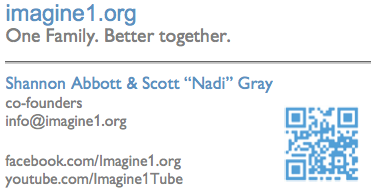
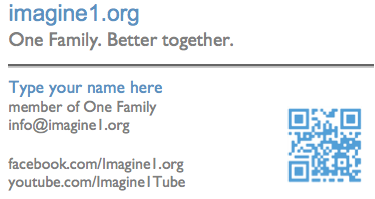
updated text and business cards for Nadi

diff --git a/about.html b/about.html
@@ -14,13 +14,7 @@
               </div>
               <div class="span4">
                   <div class="grey_box profile">
-                      <h2>Meet imagine1.org Founders <!--Shannon Abbott and Scott “Nadi” Gray--></h2>
-                              <p>
-                                  <dl>
-                                      <dt><a href="shannon.html" class="thumbnail"><img width="70%" src="images/shannon.png"/></a></dt>
-                                      <dd>Shannon Abbott (bio written by Nadi)</dd>
-                                 <dl>
-                            </p>                          
+                      <h2>Meet imagine1.org Founder <!--Shannon Abbott and Scott “Nadi” Gray--></h2>
                             <p>
                                 <dl>
                                     <dt><a href="scott.html" class="thumbnail"><img width="70%" src="images/scott.png"/></a></dt>
@@ -44,8 +38,7 @@
                       <li>No matter what we believe, all want to see our children happy and healthy.</li>
                       </ul>
                       <p>While some rejected the idea of One Family as naive or impractical, others from 25 countries joined the little family. Some wrote to the rest about why they believed in the idea. So despite Nadi being distracted by his writing, adventures, career and family, the dream of imagine1.org’s One Family was kept alive by the all that joined. </p>
-                      <p>In 2011 while backpacking on the Appalachian Trail, Nadi met Shannon Abbott. She had the same dream and agreed to help him turn the experiment into a reality. With that a new founder of imagine1.org leapt into action. Next David Dale, an IT consultant, offered to help build a new web site. Then, other friends began to help with messaging, community, and sharing encouragement in many ways.</p>
-                      <p>The rest is our history to make rather than Nadi or Shannon’s to write. But if we succeed, our lives will become more beautiful. We will wake each day knowing an opportunity is there for us, through imagine1.org, to reach someone far away and create a more connected, loving world, a world where everyone you meet is family, our family, One Family.</p>
+                      <p>The rest is our history to make rather than Nadi’s to write. But if we succeed, our lives will become more beautiful. We will wake each day knowing an opportunity is there for us, through imagine1.org, to reach someone far away and create a more connected, loving world, a world where everyone you meet is family, our family, One Family.</p>
                       
                   </div>
               </div>

diff --git a/main.html b/main.html
@@ -37,9 +37,7 @@
                 <div id="myCarousel" class="carousel slide">
                   <!-- Carousel items -->
                   <div class="carousel-inner">
-                    #{cms.randomList times:10,max:59}
-                        <div class="item"><img width="100%" src="images/photos/${random}.jpg"></div>
-                    #{/cms.randomList}
+
                   </div>                                                                
                   <!--a class="left carousel-control" href="#myCarousel" data-slide="prev">&lsaquo;</a-->
                   <!--a class="right carousel-control" href="#myCarousel" data-slide="next">&rsaquo;</a-->    
@@ -51,9 +49,7 @@
                     <div class="span9 banner">
                         <strong>One Family Members </strong>
                         <marquee scrollamount="2" width="50%">
-                        #{cms.collection name:"members", as:"member" }
-                            ${member.first} ${member.last}, ${member.country}
-                        #{/cms.collection}
+
                         </marquee>
                     </div>    
                 </div>    
@@ -87,11 +83,14 @@
                 </div>    
             </div>        
         </div>
+        <div class="row">
+            <div class="span12">
+                <center><p>Copyright 2012 &copy; imagine1.org, all rights reserved</p></center>
+            </div>
+        </div>
         </div>
 
-        <footer>
-          <p>Copyright 2012 &copy; imagine1.org, all rights reserved</p>
-        </footer>
+
 
         <script src="bootstrap/js/bootstrap.min.js"></script>
         <script src="/javascript/jquery.fitvid.js"></script>   

diff --git a/promote.html b/promote.html
@@ -41,10 +41,9 @@
     <div class="span4"><!--B4-->
         <div class="grey_box">
         <h3>Leave a card with everyone you meet</h3>
-        <p>This may be the most important way to build One Family. Print business cards and put a few in your wallet. Then as you meet people, talk to them about joining us and give them a card. There is the format with the founders names that can be left on bulletin boards and another format you can use to print your name and email address. Please build our family.</p>
+        <p>This may be the most important way to build One Family. Print business cards and put a few in your wallet. Then as you meet people, talk to them about joining us and give them a card. The format allows you to print your name and email address. Please build our family.</p>
         <p>Click the card to download</p>
         <ul class="business_cards" style="list-style:none;padding:0;margin:0;">
-            <li><a href="files/founders_card.pdf"><img width="250px" src="files/founders_card.png"/></a></li>
             <li><a href="files/your_card.pdf"><img width="250px" src="files/your_card.png"/></a></li>
         </ul>    
         </div>

diff --git a/index.html b/index.html
@@ -23,24 +23,11 @@
         </div>
     </div>
     <div class="span4">
-        <div class="grey_box">
+        <!--div class="grey_box">
         <h2>2012 Song Contest</h2><p><span class="prize">$1,000 Prize</span></p>
         <p>Visit this video for details and send to all your favorite bands, songwriters, musicians.</p>
         <iframe width="300" height="182" src="http://www.youtube.com/embed/nUIR4pZU6-0" frameborder="0" allowfullscreen></iframe>
-        </div>
+        </div-->
+        #{cms.include "/what_people_are_saying.html"/}
     </div>    
 </div>
-<div class="row">
-    <div class="span5">
-        <div class="grey_box">
-        <h2>Welcome to imagine1</h2>
-        <p>Meet the founders of imagine1.org and learn how you can help build One Family.</p>
-        <iframe width="420" height="315" src="http://www.youtube.com/embed/bPDdcm_zwFg" frameborder="0" allowfullscreen></iframe>
-        </div>
-    </div>
-    <div class="span4">
-        #{cms.include "/what_people_are_saying.html"/}
-    </div>       
-
-</div>    
-
